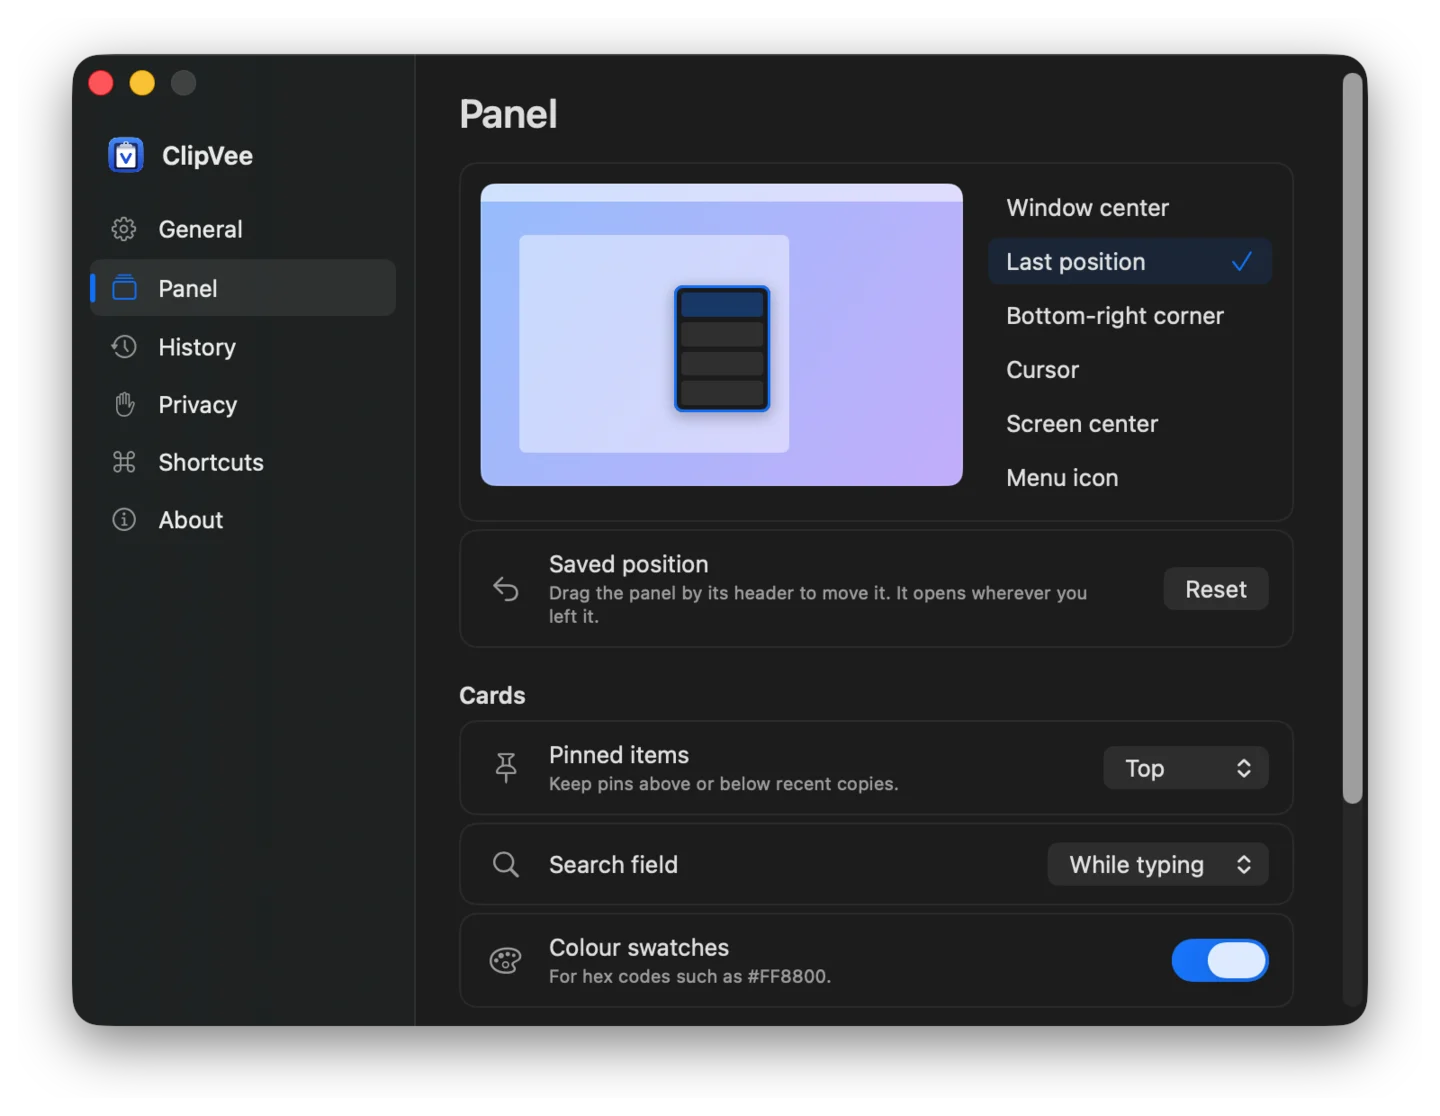
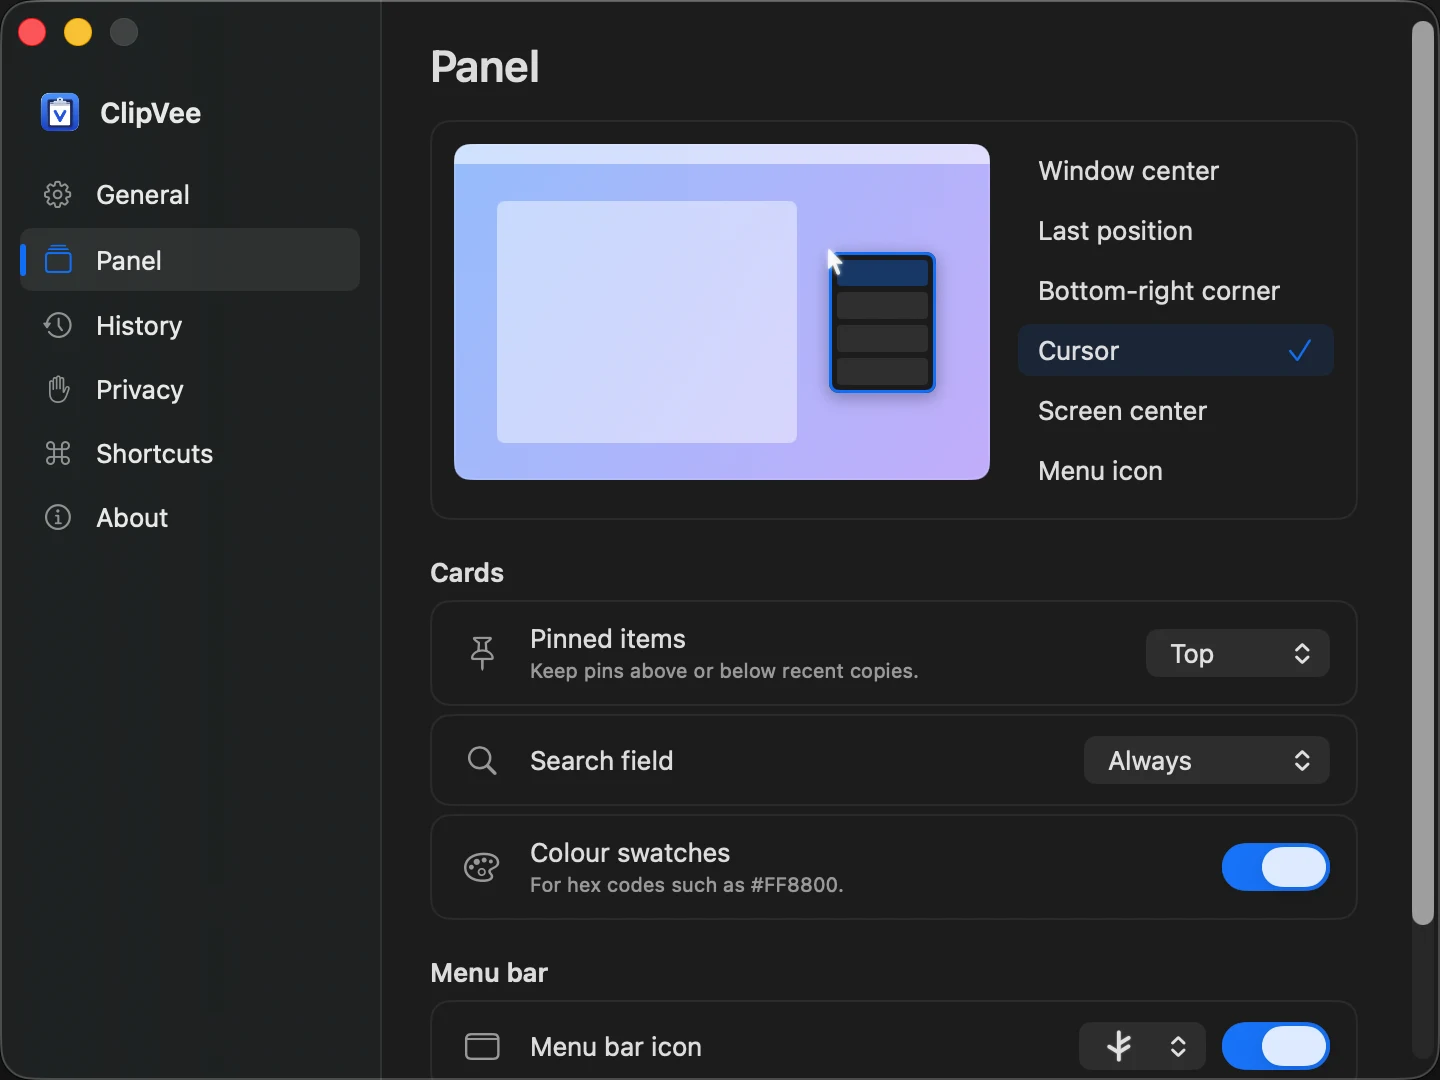
Use the 1.0.5 panel and Settings screenshots

diff --git a/index.html b/index.html
@@ -293,9 +293,9 @@
         <figure><div><span class="k">⌘</span> <span class="k">⇧</span> <span class="k">V</span></div><figcaption>ClipVee on the Mac</figcaption></figure>
       </div>
       <div class="shot">
-        <img src="images/panel.webp" width="1440" height="998" alt="The ClipVee panel open over a text document, showing a photo card, a text card and a colour swatch card">
+        <img src="images/panel.webp" width="1440" height="851" alt="The ClipVee panel open beside a document, with the search field and three text cards, the pasted sentence selected first">
       </div>
-      <p class="caption">The real panel: text, images and colours, newest first.</p>
+      <p class="caption">The real panel: newest copies first, with the search field at the top.</p>
     </div>
   </section>
 
@@ -326,7 +326,7 @@
           <li>Wherever you last dragged it</li>
         </ul>
       </div>
-      <img src="images/settings.webp" width="1440" height="1116" alt="ClipVee Settings on the Panel page, with a picture of the screen and a list of places the panel can open">
+      <img src="images/settings.webp" width="1440" height="1080" alt="ClipVee Settings on the Panel page, with a picture of the screen and a list of places the panel can open">
     </div>
   </section>
 
